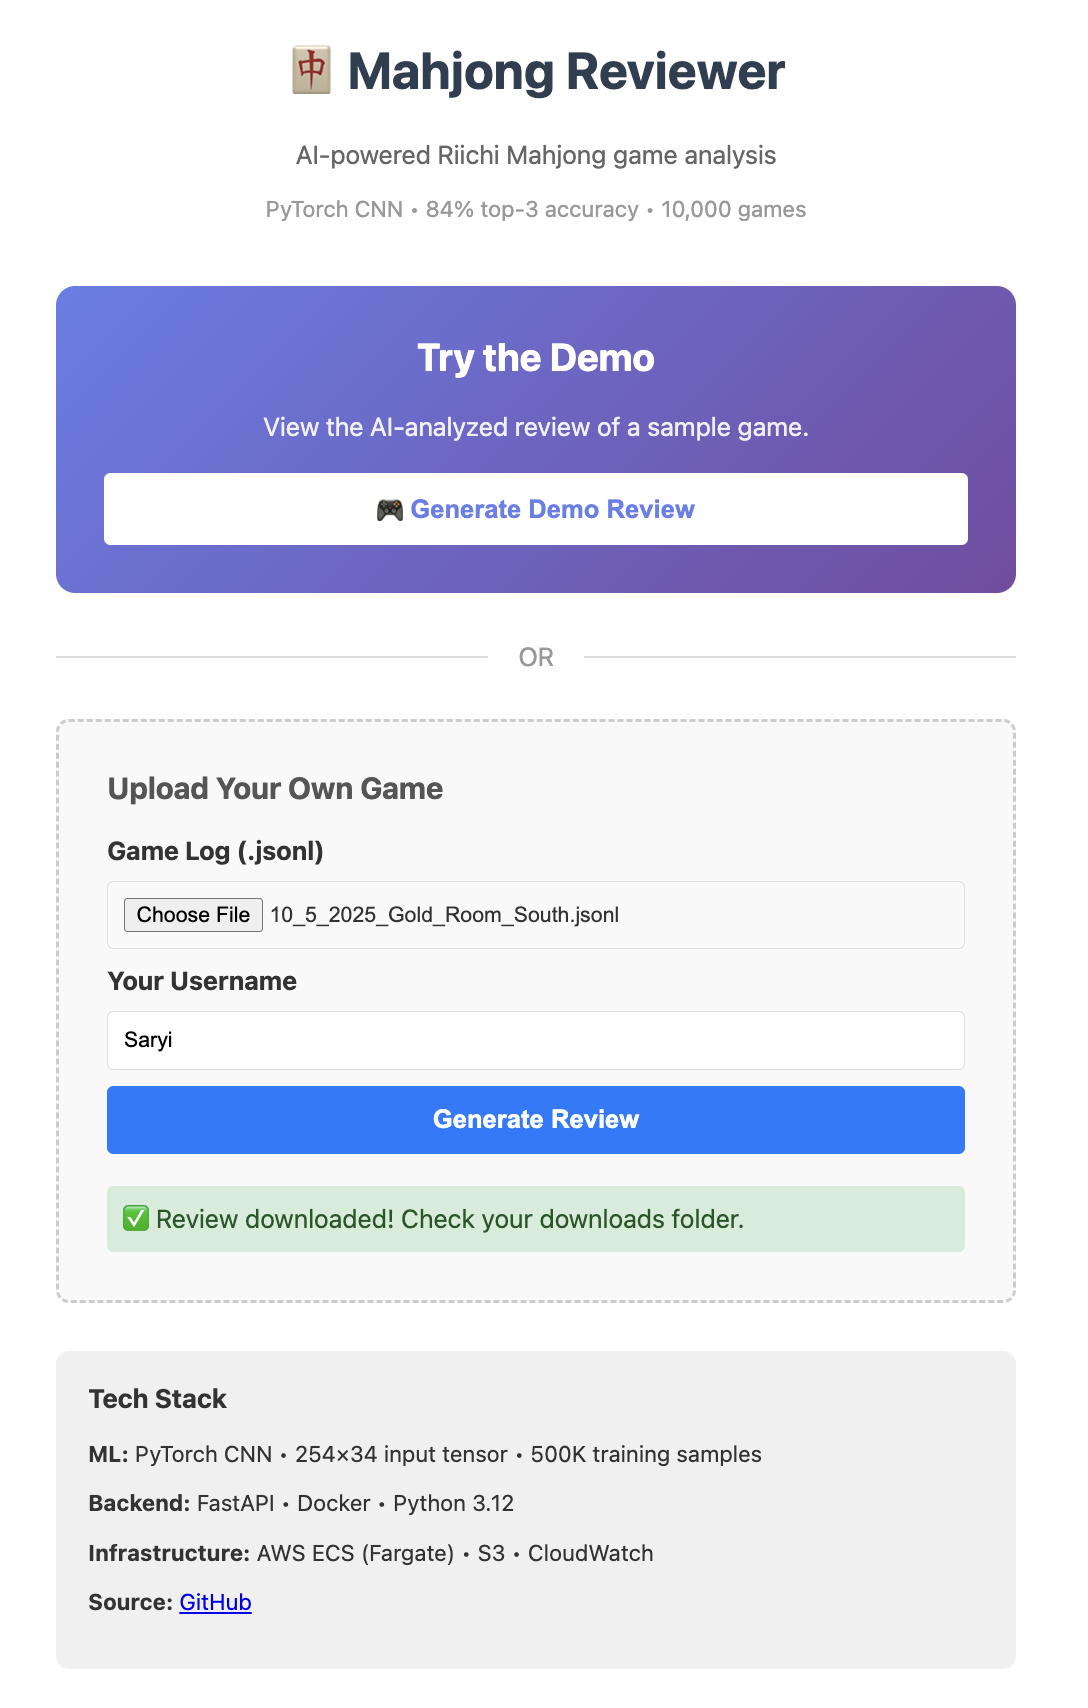
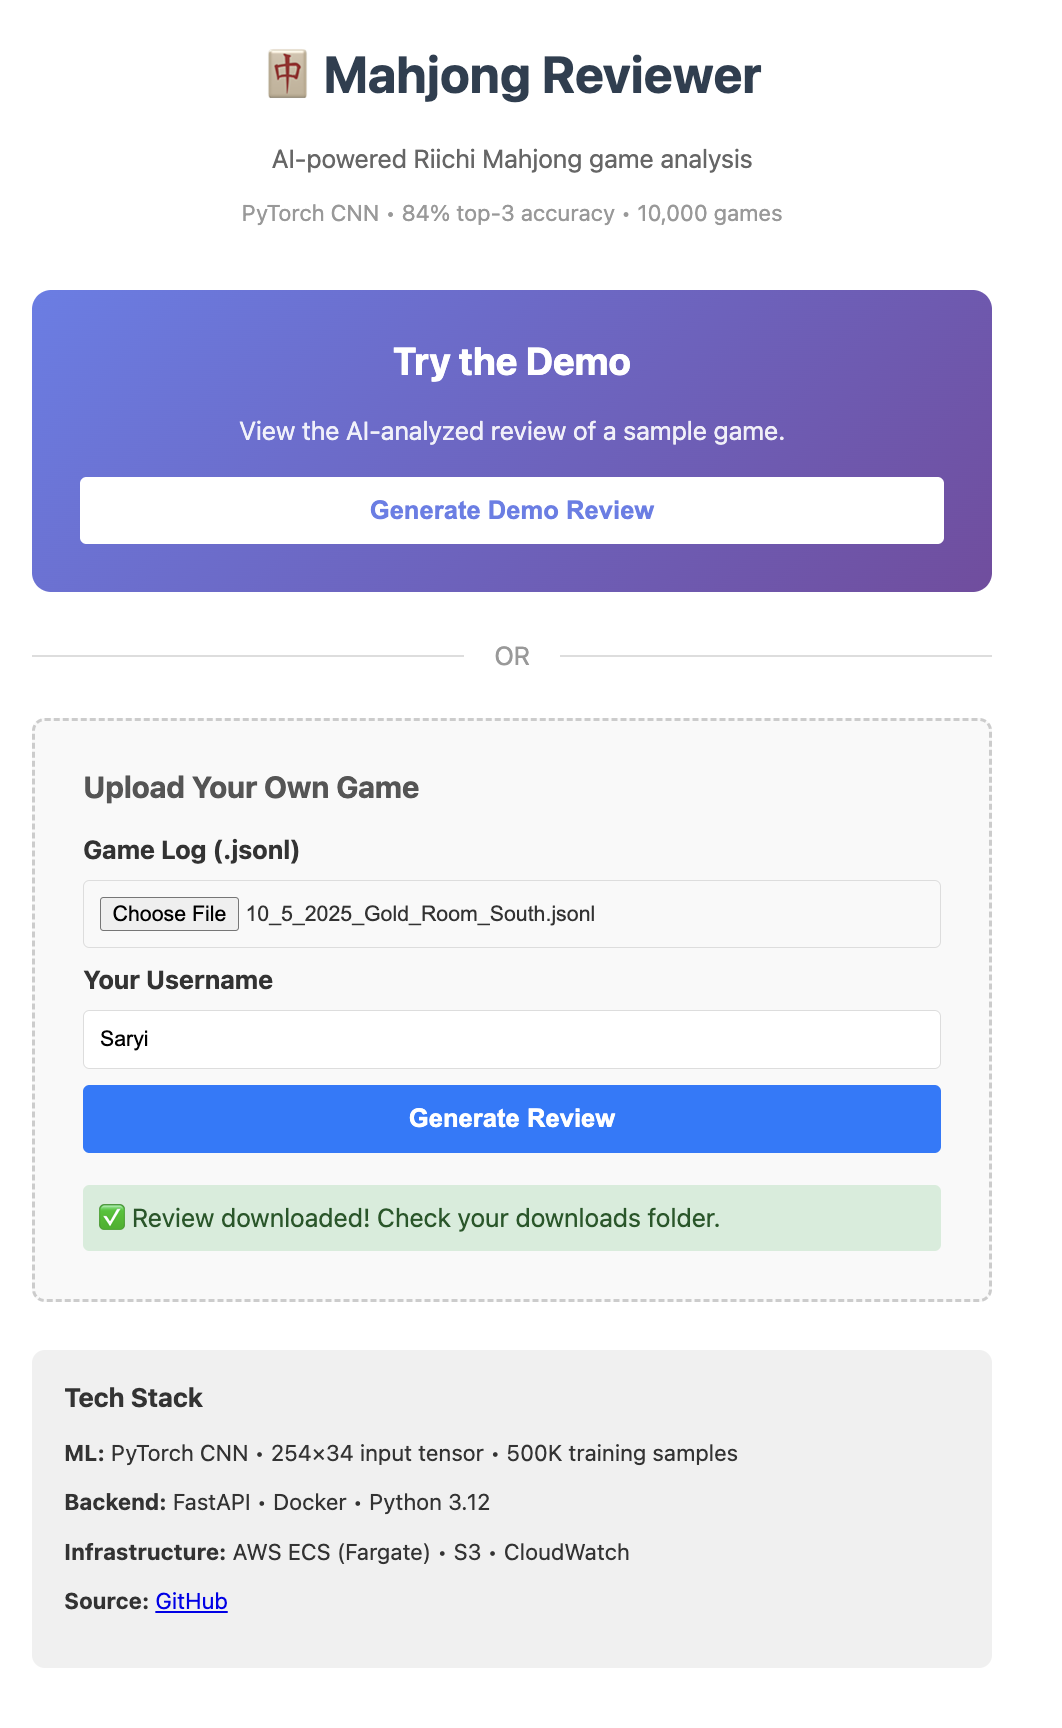
Temporary readme update

diff --git a/README.md b/README.md
@@ -63,7 +63,7 @@ This application analyzes your riichi mahjong game log, producing an html game r
 ### Live Demo
 **Try it now:** https://mahjong-reviewer.com
 
-Upload a Mahjong Soul `.jsonl` game log or click "Try Demo" to see AI analysis in action.
+Click "Try Demo" or upload a Mahjong Soul `.jsonl` game log to see AI analysis in action.
 
 **Tech Stack:** PyTorch • FastAPI • Docker • AWS (ECS/ALB/S3/ACM)
 
